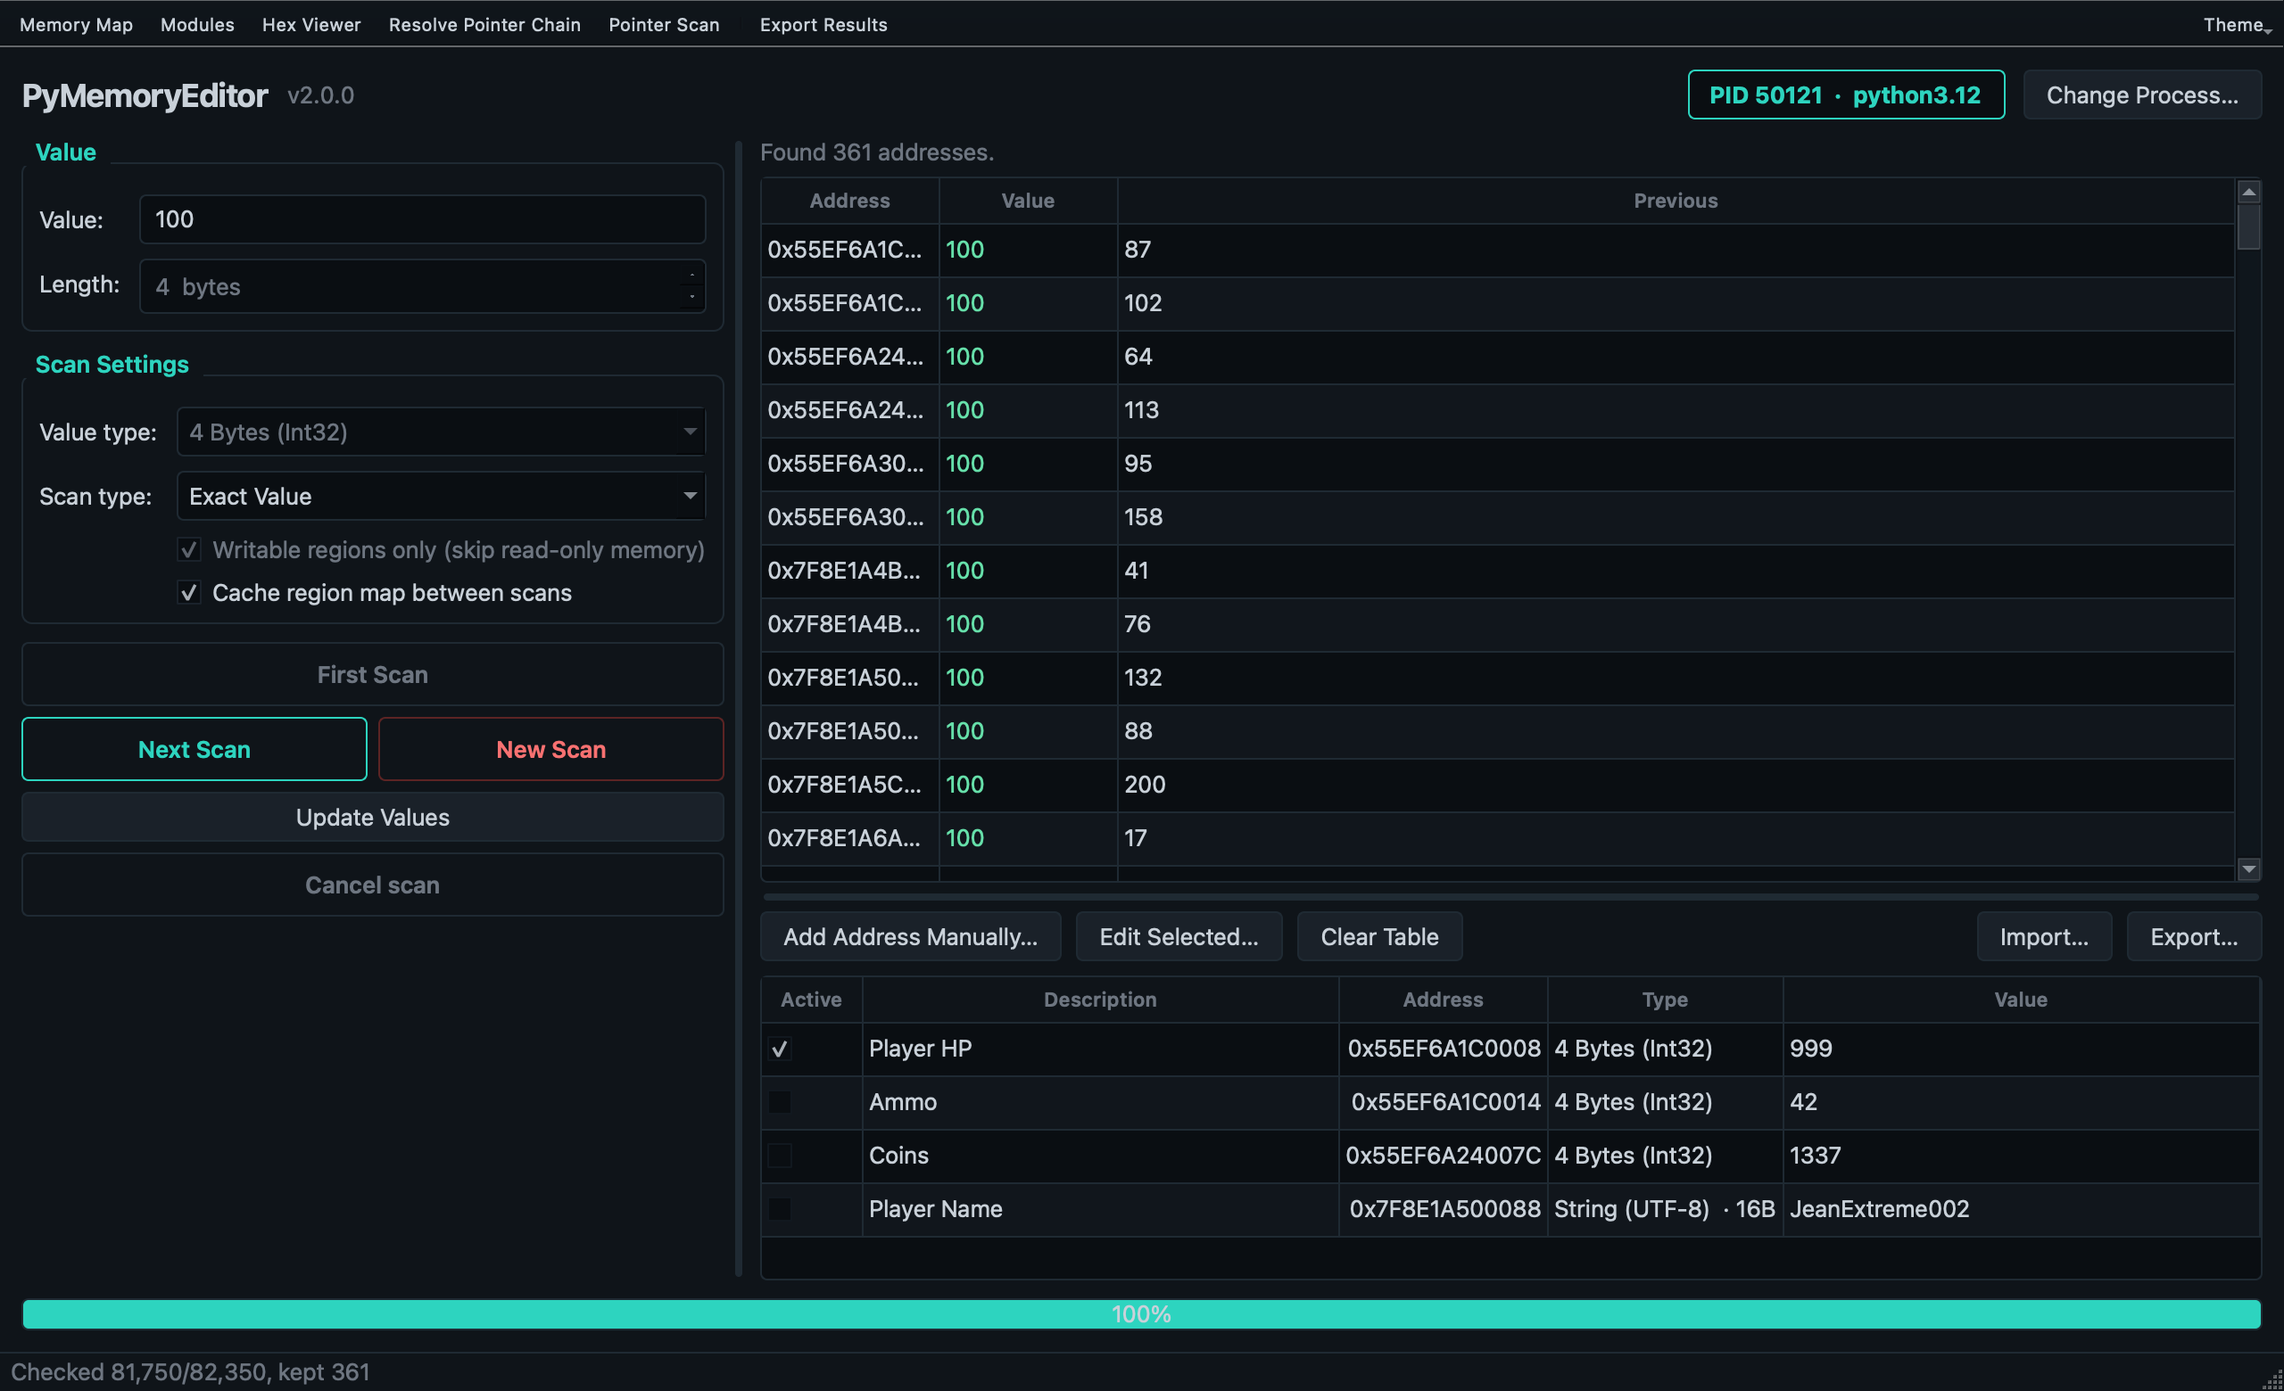
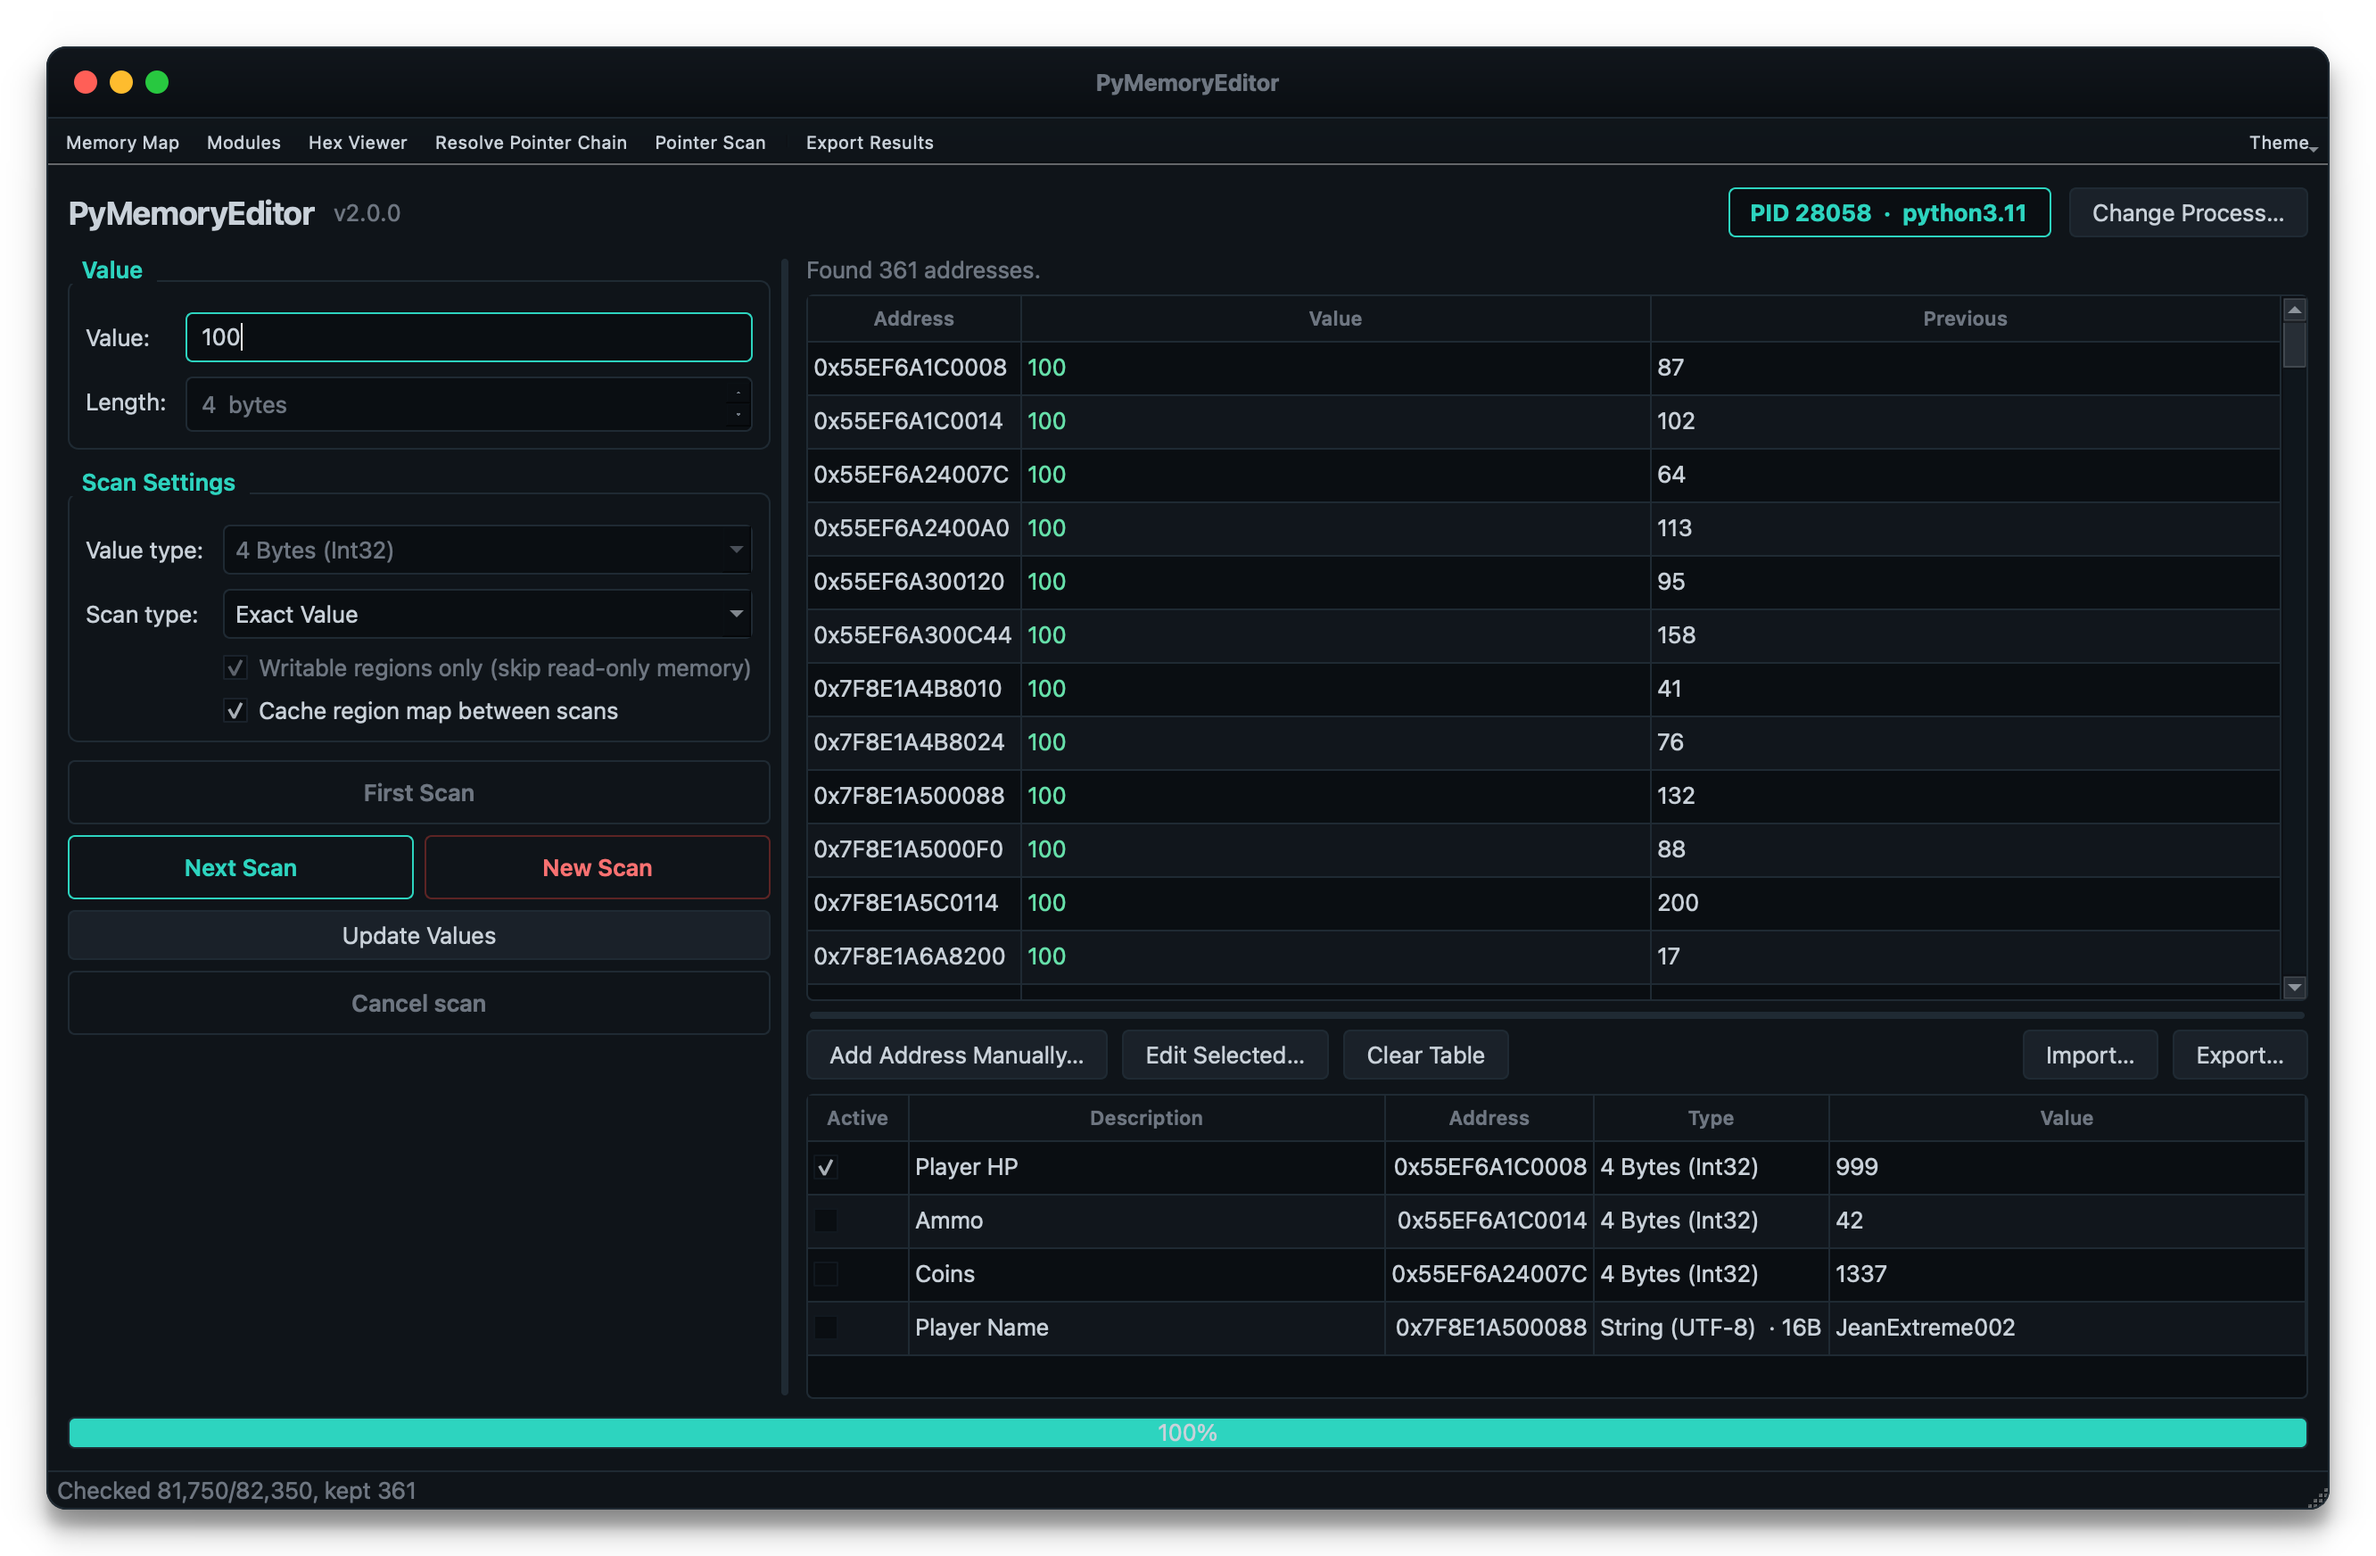
feat: wrap app screenshot in a macOS-style window frame (#40)
Add a wrap_in_macos_frame() helper to the screenshot generator that
composites the grabbed window into macOS chrome — traffic lights, a
title bar tuned to the dark Kali Teal theme, rounded corners, and a soft
drop shadow on a transparent canvas — using the tightest margin that
still fits the shadow.

diff --git a/scripts/generate_app_screenshot.py b/scripts/generate_app_screenshot.py
@@ -18,8 +18,22 @@ import os
 import sys
 from pathlib import Path
 
-from PySide6.QtCore import QTimer
-from PySide6.QtWidgets import QApplication
+from PySide6.QtCore import QPointF, QRectF, Qt, QTimer
+from PySide6.QtGui import (
+    QColor,
+    QFont,
+    QLinearGradient,
+    QPainter,
+    QPainterPath,
+    QPen,
+    QPixmap,
+)
+from PySide6.QtWidgets import (
+    QApplication,
+    QGraphicsDropShadowEffect,
+    QGraphicsPixmapItem,
+    QGraphicsScene,
+)
 
 from PyMemoryEditor import OpenProcess
 from PyMemoryEditor.app._icon import app_icon
@@ -31,6 +45,111 @@ from PyMemoryEditor.app.value_types import find_spec
 
 REPO_ROOT = Path(__file__).resolve().parent.parent
 OUTPUT_PATH = str(REPO_ROOT / "assets" / "screenshots" / "app.png")
+
+# macOS-style window chrome, tuned to match the app's dark "Kali Teal" theme.
+# The margin is kept just large enough to hold the (soft) drop shadow.
+TITLE_BAR_HEIGHT = 40
+CORNER_RADIUS = 11
+SHADOW_BLUR = 30
+SHADOW_OFFSET_Y = 10
+SHADOW_MARGIN = 26
+TITLE_BAR_TOP = "#11161C"
+TITLE_BAR_BOTTOM = "#0A0E12"
+TITLE_BAR_BORDER = "#1F2A33"
+TITLE_TEXT = "PyMemoryEditor"
+TITLE_TEXT_COLOR = "#6E7681"
+TRAFFIC_LIGHTS = ("#FF5F57", "#FEBC2E", "#28C840")
+
+
+def wrap_in_macos_frame(content: QPixmap) -> QPixmap:
+    """Composite *content* into a macOS-style window (traffic lights, title
+    bar, rounded corners, drop shadow) on a transparent canvas, with the
+    tightest margin that still fits the shadow."""
+    dpr = content.devicePixelRatio() or 1.0
+    content.setDevicePixelRatio(1.0)  # draw the grab 1:1 in physical pixels
+
+    def s(value):  # scale chrome metrics to match a possibly-retina grab
+        return int(round(value * dpr))
+
+    title_h = s(TITLE_BAR_HEIGHT)
+    radius = s(CORNER_RADIUS)
+    margin = s(SHADOW_MARGIN)
+
+    win_w = content.width()
+    win_h = content.height() + title_h
+
+    window_pix = QPixmap(win_w, win_h)
+    window_pix.fill(Qt.transparent)
+
+    p = QPainter(window_pix)
+    p.setRenderHint(QPainter.Antialiasing)
+    p.setRenderHint(QPainter.SmoothPixmapTransform)
+
+    path = QPainterPath()
+    path.addRoundedRect(QRectF(0, 0, win_w, win_h), radius, radius)
+    p.setClipPath(path)
+
+    # Title bar gradient + content below it.
+    gradient = QLinearGradient(0, 0, 0, title_h)
+    gradient.setColorAt(0.0, QColor(TITLE_BAR_TOP))
+    gradient.setColorAt(1.0, QColor(TITLE_BAR_BOTTOM))
+    p.fillRect(QRectF(0, 0, win_w, title_h), gradient)
+    p.drawPixmap(0, title_h, content)
+
+    # Separator under the title bar.
+    p.setPen(QPen(QColor(TITLE_BAR_BORDER), s(1)))
+    p.drawLine(0, title_h, win_w, title_h)
+
+    # Traffic lights.
+    p.setPen(Qt.NoPen)
+    dot_r = s(6.5)
+    spacing = s(20)
+    cx = s(22)
+    cy = title_h / 2
+    for color in TRAFFIC_LIGHTS:
+        p.setBrush(QColor(color))
+        p.drawEllipse(QPointF(cx, cy), dot_r, dot_r)
+        cx += spacing
+
+    # Centered title text.
+    font = QFont(p.font())
+    font.setPixelSize(s(13))
+    font.setBold(True)
+    p.setFont(font)
+    p.setPen(QColor(TITLE_TEXT_COLOR))
+    p.drawText(QRectF(0, 0, win_w, title_h), Qt.AlignCenter, TITLE_TEXT)
+
+    # Hairline border around the whole window.
+    p.setClipping(False)
+    p.setBrush(Qt.NoBrush)
+    p.setPen(QPen(QColor(TITLE_BAR_BORDER), s(1)))
+    inset = s(0.5)
+    p.drawRoundedRect(
+        QRectF(inset, inset, win_w - s(1), win_h - s(1)), radius, radius
+    )
+    p.end()
+
+    # Drop shadow on a transparent canvas via a graphics scene.
+    scene = QGraphicsScene()
+    item = QGraphicsPixmapItem(window_pix)
+    shadow = QGraphicsDropShadowEffect()
+    shadow.setBlurRadius(s(SHADOW_BLUR))
+    shadow.setColor(QColor(0, 0, 0, 130))
+    shadow.setOffset(0, s(SHADOW_OFFSET_Y))
+    item.setGraphicsEffect(shadow)
+    scene.addItem(item)
+
+    final = QPixmap(win_w + margin * 2, win_h + margin * 2)
+    final.fill(Qt.transparent)
+    fp = QPainter(final)
+    fp.setRenderHint(QPainter.Antialiasing)
+    scene.render(
+        fp,
+        QRectF(0, 0, final.width(), final.height()),
+        QRectF(-margin, -margin, final.width(), final.height()),
+    )
+    fp.end()
+    return final
 
 rows = [
     (0x000055EF6A1C0008, 100, 87),
@@ -166,7 +285,7 @@ def main():
             pass
 
         app.processEvents()
-        pixmap = window.grab()
+        pixmap = wrap_in_macos_frame(window.grab())
         ok = pixmap.save(OUTPUT_PATH, "PNG")
         print(f"saved={ok} path={OUTPUT_PATH} size={pixmap.width()}x{pixmap.height()}")
         QTimer.singleShot(50, app.quit)

diff --git a/scripts/__init__.py b/scripts/__init__.py
@@ -1,0 +1,3 @@
+# -*- coding: utf-8 -*-
+
+"""Developer scripts for the PyMemoryEditor repository (not shipped in the wheel)."""
